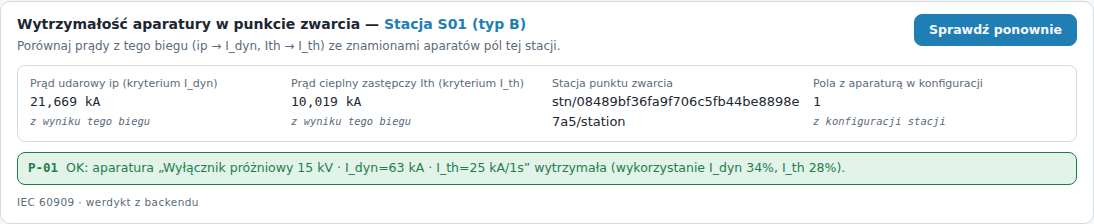
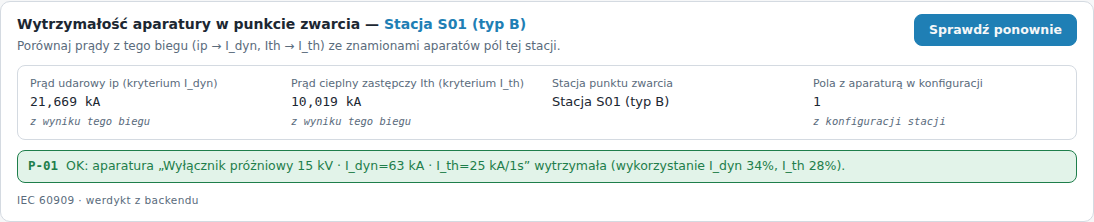
KD-4 (ogniwo, dopracowanie): stacja przedstawia sie NAZWA, nie identyfikatorem
Ogledziny zrzutu wykazaly surowy ref modelu (`stn/…/station`) w strefie
pierwszoplanowej sekcji ogniwa — wbrew zasadzie „zero surowych identyfikatorow
na pierwszym planie". Nazwa stacji pochodzi z migawki modelu; ref zostaje
atrybutem maszynowym (podpowiedz + asercje e2e), wiec nic nie tracimy na
sledzeniu. Brak nazwy w modelu -> uczciwie ref (zero zgadywania).

Bramki: vitest 103 passed (zwarcia + ogniwo, +1 test nazwy); e2e ogniwa
1 passed (asercja przepieta na atrybut maszynowy); zrzuty obu motywow
odswiezone; tsc/eslint RC=0; guardy ui_production_codes / ui_no_physics RC=0.

diff --git a/mv-design-pro/frontend/src/ui2/wyniki/zwarcia/aparatura/__tests__/WeryfikacjaAparatury.test.tsx b/mv-design-pro/frontend/src/ui2/wyniki/zwarcia/aparatura/__tests__/WeryfikacjaAparatury.test.tsx
@@ -21,7 +21,7 @@ import { useSnapshotStore } from '../../../../../ui/topology/snapshotStore';
 import type { EnergyNetworkModel } from '../../../../../types/enm';
 import { shortCircuitRowFixture } from '../../__tests__/fixtures';
 import { WeryfikacjaAparatury } from '../WeryfikacjaAparatury';
-import { polaDoSprawdzenia, powodBrakuPodstawy, stacjeDlaPunktu } from '../model';
+import { nazwaStacji, polaDoSprawdzenia, powodBrakuPodstawy, stacjeDlaPunktu } from '../model';
 
 const STACJA = 'stn/abc/station';
 
@@ -313,6 +313,17 @@ describe('model ogniwa — czyste selektory', () => {
         ithKA: 12.5,
       }),
     ).toEqual([]);
+  });
+
+  it('stacja przedstawia się NAZWĄ; brak nazwy w modelu → uczciwie ref', () => {
+    const snap = snapshotZeStacja('EL-GPZ');
+    expect(nazwaStacji(snap, STACJA)).toBe('Stacja 1');
+    const bezNazwy = {
+      ...snap,
+      substations: [{ ...snap.substations[0], name: '' }],
+    } as unknown as EnergyNetworkModel;
+    expect(nazwaStacji(bezNazwy, STACJA)).toBe(STACJA);
+    expect(nazwaStacji(null, STACJA)).toBe(STACJA);
   });
 
   it('powód braku podstawy rozróżnia trzy sytuacje', () => {

diff --git a/mv-design-pro/frontend/src/ui2/wyniki/zwarcia/aparatura/WeryfikacjaAparatury.tsx b/mv-design-pro/frontend/src/ui2/wyniki/zwarcia/aparatura/WeryfikacjaAparatury.tsx
@@ -30,6 +30,7 @@ import type { ShortCircuitRow } from '../../../../ui/results-inspector/types';
 import { useSnapshotStore } from '../../../../ui/topology/snapshotStore';
 import { fmtKA } from '../strings';
 import {
+  nazwaStacji,
   polaDoSprawdzenia,
   powodBrakuPodstawy,
   stacjeDlaPunktu,
@@ -204,8 +205,16 @@ export function WeryfikacjaAparatury({
         </div>
         <div>
           <dt>{T.wejscieStacja}</dt>
-          <dd data-testid="mvd-zwarcia-aparatura-stacje">
-            {stacje.length === 0 ? T.kreska : stacje.join(', ')}
+          {/* Strefa pierwszoplanowa mówi NAZWĄ stacji; ref modelu zostaje
+              maszynowym atrybutem (podpowiedź i asercje), nie napisem. */}
+          <dd
+            data-testid="mvd-zwarcia-aparatura-stacje"
+            data-stacje-ref={stacje.join(',')}
+            title={stacje.join(', ')}
+          >
+            {stacje.length === 0
+              ? T.kreska
+              : stacje.map((ref) => nazwaStacji(snapshot, ref)).join(', ')}
           </dd>
         </div>
         <div>

diff --git a/mv-design-pro/frontend/e2e/ogniwo-zwarcie-aparatura.spec.ts b/mv-design-pro/frontend/e2e/ogniwo-zwarcie-aparatura.spec.ts
@@ -267,7 +267,12 @@ test('ogniwo: z wyniku zwarciowego wprost do werdyktu wytrzymałości aparatury 
   // Sekcja ogniwa pokazuje prądy TEGO punktu jako wejścia.
   const sekcja = page.getByTestId('mvd-zwarcia-aparatura');
   await expect(sekcja).toBeVisible();
-  await expect(page.getByTestId('mvd-zwarcia-aparatura-stacje')).toContainText(stationRef);
+  // Strefa pierwszoplanowa pokazuje NAZWĘ stacji; ref modelu jest atrybutem
+  // maszynowym — asercja idzie po nim (nazwa może się zmienić, ref nie).
+  await expect(page.getByTestId('mvd-zwarcia-aparatura-stacje')).toHaveAttribute(
+    'data-stacje-ref',
+    stationRef,
+  );
 
   // AKCJA: jawne przejście do weryfikacji wytrzymałości.
   await page.getByTestId('mvd-zwarcia-aparatura-sprawdz').click();

diff --git a/mv-design-pro/frontend/src/ui2/wyniki/zwarcia/aparatura/model.ts b/mv-design-pro/frontend/src/ui2/wyniki/zwarcia/aparatura/model.ts
@@ -102,6 +102,20 @@ export function polaDoSprawdzenia(args: {
     .sort((a, b) => a.bayDesignation.localeCompare(b.bayDesignation));
 }
 
+/**
+ * Nazwa stacji z modelu (strefa pierwszoplanowa mówi po polsku, nie
+ * identyfikatorami). Brak nazwy w modelu → ref jako uczciwy zapasowy opis.
+ */
+export function nazwaStacji(
+  snapshot: EnergyNetworkModel | null,
+  stationRef: string,
+): string {
+  const stacja = (snapshot?.substations ?? []).find(
+    (s) => (s.ref_id ?? s.id) === stationRef,
+  );
+  return stacja?.name || stationRef;
+}
+
 /** Powód, dla którego weryfikacji NIE DA SIĘ przeprowadzić (uczciwy stan zerowy). */
 export type PowodBrakuPodstawy =
   | 'brak-pradow'
